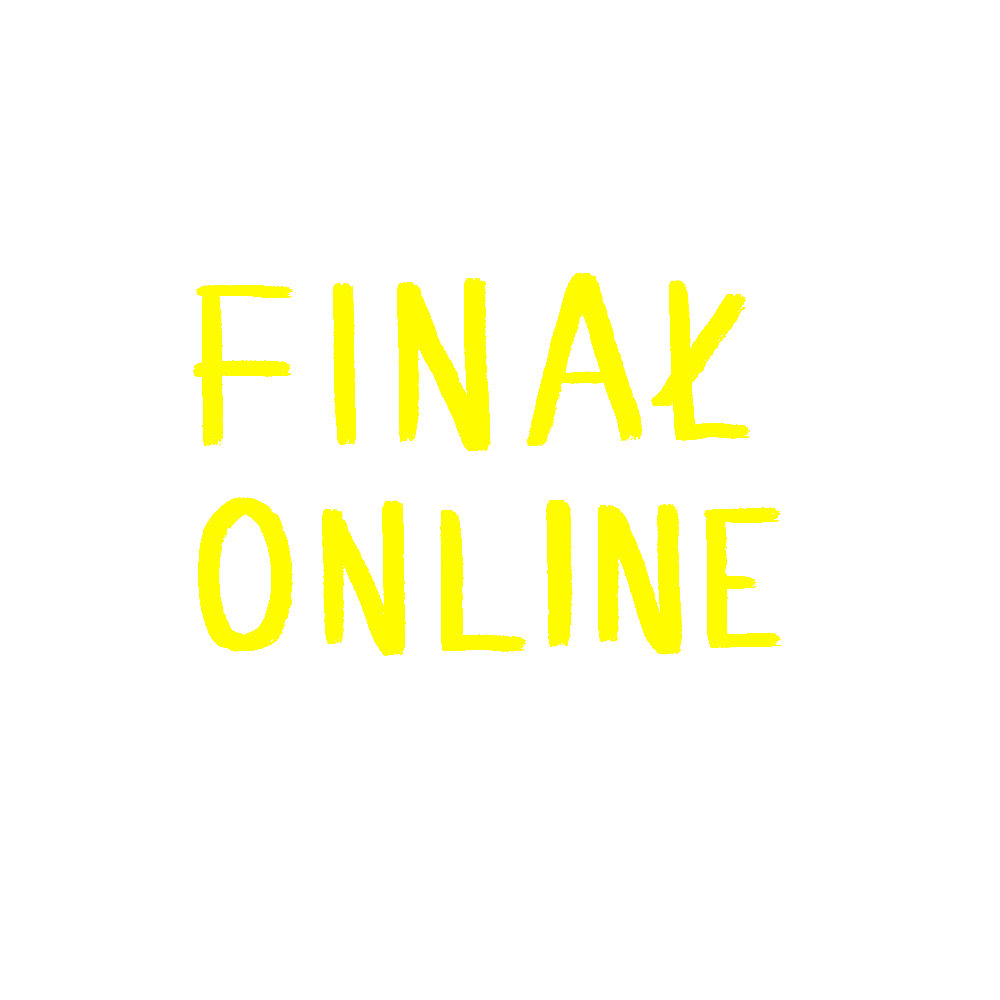
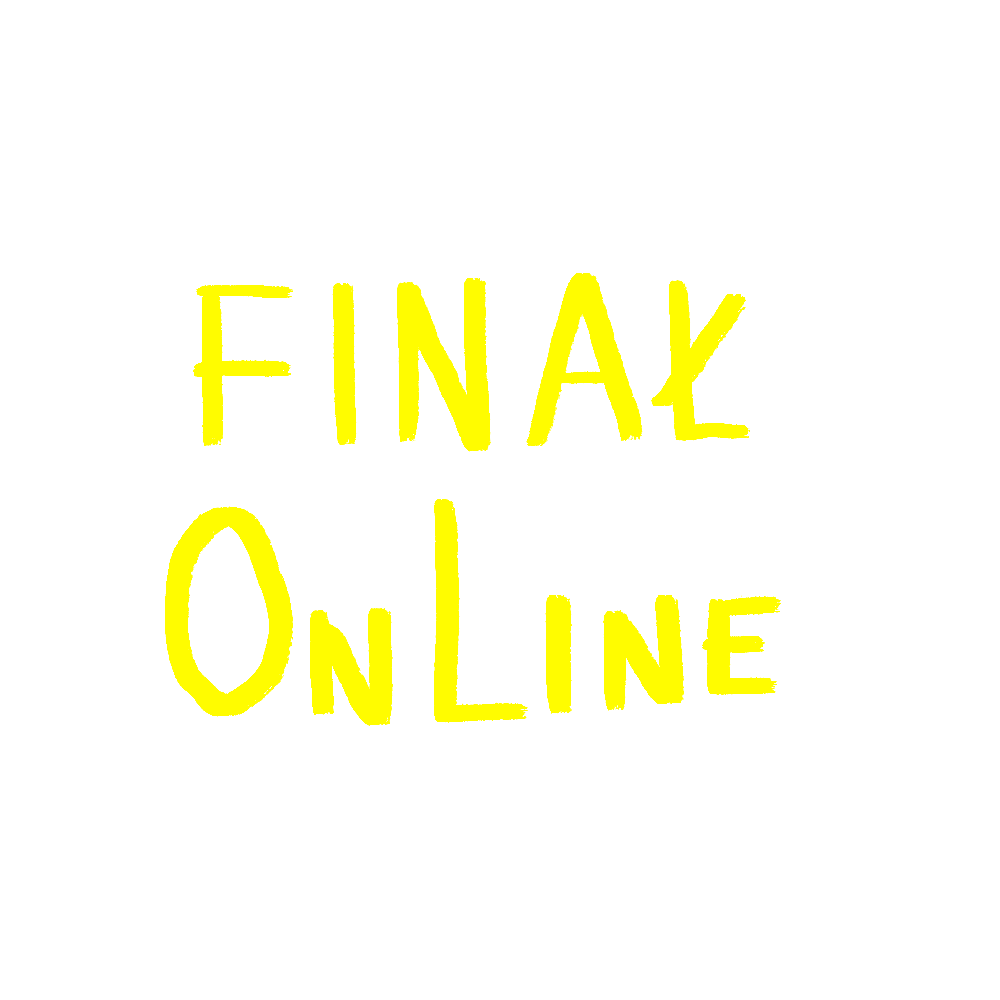
dasdA

Changed region(s): [[0.434, 0.496, 0.775, 0.744], [0.155, 0.496, 0.403, 0.744]]

diff --git a/index.html b/index.html
@@ -192,13 +192,15 @@
         <div class="container">
           <div class="row">
             <div class="col-md-6 align-self-center g-mb-50--md g-mb-0--md">
-              <div class="u-heading-v2-3--bottom g-brd-primary g-mb-30">
+              <div class="u-heading-v2-3--bottom g-brd-primary g-mb-30"  id="custom-line-color">
                 <h2 class="h1 u-heading-v2__title g-color-gray-dark-v2 text-uppercase g-font-weight-700">Chcesz z nami napisać sztukę teatralną?</h2>
               </div>
 
               <div class="g-font-size-18 g-line-height-2 g-mb-30">
                 <p> Jesteś kreatywny? Lubisz pisać? Chciałbyś opowiedzieć o czymś dla Ciebie ważnym? Albo zabawnym? A może poruszającym?
 Zapraszamy Cię na warsztaty scenariopisarskie z wybitnym scenarzystą filmowym i pisarzem <strong>Cezarym Harasimowiczem</strong>. W ciągu sześciu spotkań online powstanie scenariusz sztuki teatralnej,  którą potem wystawimy na profesjonalnej scenie, a zagrają w niej zawodowi aktorzy.</p>
+                <p><a href="img/regulamin.pdf" target="_blank">REGULAMIN PROJEKTU</a></p>
+
                 <!-- <p>There are many variations of passages of Lorem Ipsum available, but the majority have suffered alteration in some form, by injected humour, or randomised words which don't look even slightly believable.</p> -->
               </div>
 
@@ -261,7 +263,7 @@ Zapraszamy Cię na warsztaty scenariopisarskie z wybitnym scenarzystą filmowym 
           <div class="row no-gutters">
             <div class="col-lg-4">
               <!-- Icon Blocks -->
-              <div class="u-block-hover g-bg-purple g-color-white text-center g-py-120 g-px-50">
+              <div class="u-block-hover g-bg-purple g-color-white text-center g-py-120 g-px-50 block-same-size">
                 <span class="d-block g-font-size-50 g-rounded-5 mb-2">
                   <i class="icon-education-003 u-line-icon-pro"></i>
                 </span>
@@ -292,12 +294,12 @@ Zapraszamy Cię na warsztaty scenariopisarskie z wybitnym scenarzystą filmowym 
 
             <div class="col-lg-4">
               <!-- Icon Blocks -->
-              <div class="u-block-hover g-bg-purple g-color-white text-center g-py-120 g-px-50">
+              <div class="u-block-hover g-bg-purple g-color-white text-center g-py-120 g-px-50 block-same-size">
                 <span class="d-block g-font-size-50 g-rounded-5 mb-2">
                   <i class="icon-education-090 u-line-icon-pro"></i>
                 </span>
                 <h3 class="h3 g-font-weight-600 mb-30">OnLINE / OnLIFE</h3>
-                <!-- <p class="lead g-color-white-opacity-0_8 mb-5">We strive to embrace and drive change in our industry which allows us to keep our clients relevant.</p> -->
+                <p class="lead g-color-white-opacity-0_8 mb-5">Projekt przenosi się z rzeczywistości internetowej (<i>online</i>) do „realu“ (<i>onlife</i>). Sztuka wchodzi w etap „żywego“ teatru i wejdzie do stałego repertuaru Garnizonu Sztuki - teatru pozytywnych emocji. </p>
                 <!-- <div class="u-block-hover__additional--fade u-block-hover__additional--fade-up">
                   <a class="btn btn-lg u-btn-outline-white g-pos-abs g-bottom-80 g-absolute-centered--x g-font-weight-500 g-font-size-default g-rounded-4 g-px-25" href="#">Subscribe</a>
                 </div> -->
@@ -363,7 +365,7 @@ Zapraszamy Cię na warsztaty scenariopisarskie z wybitnym scenarzystą filmowym 
                       <p class="g-color-gray-dark-v5 align-justify mb-0"><strong>4. „Cyberobłęd"</strong>, zagrożenie jakim jest wpływ internetu na nasze zachowania, uzależnienia, lęki.</p>
                       <!-- </br> -->
                       <p class="g-color-gray-dark-v5  align-justify mb-0">Spośród chętnych, którzy nadeślą uzasadnienie wyboru interesującego ich tematu, komisja w składzie: Cezary Harasimowicz, Joanna Glińska, Grażyna Wolszczak, Martyna Kowacka, wyłoni 35 - osobową grupę warsztatową.</p>
-                      <p><a href="img/regulamin.pdf" >Regulamin projektu</a></p>
+                      <p><a href="img/regulamin.pdf" target="_blank">REGULAMIN PROJEKTU</a></p>
                     </div>
                   </div>
                 </div>
@@ -452,7 +454,7 @@ Zapraszamy Cię na warsztaty scenariopisarskie z wybitnym scenarzystą filmowym 
                 <div class="col-md-9 g-order-1 g-order-2--sm px-0 g-mb-15 g-mb-0--md">
                   <div class="media d-block d-md-flex">
                     <div class="d-md-flex g-width-120 g-width-170--md g-height-120 g-height-170--md g-overlay-black-0_7 g-overlay-none--parent-hover g-rounded-50x g-mr-30--md mx-auto g-mb-15 g-mb-0--md g-transition-0_2 g-transition--ease-in">
-                      <img class="img-fluid g-rounded-50x bg-blue-custom" src="img/finaloffline.png" alt="Image description">
+                      <img class="img-fluid g-rounded-50x bg-blue-custom" src="img/finalonlife.png" alt="Image description">
                     </div>
 
                     <div class="media-body align-self-center">
@@ -495,7 +497,7 @@ Zapraszamy Cię na warsztaty scenariopisarskie z wybitnym scenarzystą filmowym 
               </div>
               <div class="  g-pos-rel g-z-index-1">
                 <h3 class="h5 g-color-black g-font-weight-700 text-uppercase g-mb-12 custom-align">13 marca - SESJA 1 -  TEMAT I GATUNEK</h3>
-                <p class="g-color-black mb-0 custom-align">Po zapoznaniu się z uczestnikami, #Internauci pod przewodnictwem lidera zbiorowo omówią wybrany <strong>jeden czterech tematów</strong> oraz <strong>gatunek literacki</strong>, który najbardziej pasuje do tego tematu. Wyborowi będzie towarzyszyć kreatywna dyskusja dlaczego akurat ten temat i gatunek jest interesujący. </p>
+                <p class="g-color-black mb-0 custom-align">Po zapoznaniu się z uczestnikami, #Internauci pod przewodnictwem mentora zbiorowo omówią wybrany <strong>jeden czterech tematów</strong> oraz <strong>gatunek literacki</strong>, który najbardziej pasuje do tego tematu. Wyborowi będzie towarzyszyć kreatywna dyskusja dlaczego akurat ten temat i gatunek jest interesujący. </p>
               </div>
             </article>
             <!-- End Article -->
@@ -523,7 +525,7 @@ Zapraszamy Cię na warsztaty scenariopisarskie z wybitnym scenarzystą filmowym 
               </div>
               <div class="  g-pos-rel g-z-index-1">
                 <h3 class="h5 g-color-black g-font-weight-700 text-uppercase g-mb-12 custom-align">27 marca - SESJA 3 - FABUŁA</h3>
-                <p class="g-color-black mb-0 custom-align">Na początku sesji lider omówi i wybierze najlepsze „prace domowe”, a co za tym idzie – najciekawszą postać głównego bohatera (bohaterki), antagonisty i postaci drugoplanowych. Teraz będziemy na tej podstawie <strong>budować fabułę</strong>. Lider wyjaśni na czym polega wyznaczenie głównego celu bohatera, stawianie przeszkód, budowanie punktów zwrotnych, budowanie ekspozycji, konfrontacji, kulminacji, rozwiązania. Jak sztuka dzieli się na akty. A także wybierzemy wspólnie odpowiednie miejsce i czas dla akcji sztuki. #Internautom zostanie wyznaczone zadanie domowe: <strong>pięć zwięzłych zdań (logline) dotyczących fabuły przyszłej sztuki</strong>. „Praca domowa” będzie przesłana do następnej środy do godz. 12.00. na skrzynkę kontaktową.</p>
+                <p class="g-color-black mb-0 custom-align">Na początku sesji mentor omówi i wybierze najlepsze „prace domowe”, a co za tym idzie – najciekawszą postać głównego bohatera (bohaterki), antagonisty i postaci drugoplanowych. Teraz będziemy na tej podstawie <strong>budować fabułę</strong>. Mentor wyjaśni na czym polega wyznaczenie głównego celu bohatera, stawianie przeszkód, budowanie punktów zwrotnych, budowanie ekspozycji, konfrontacji, kulminacji, rozwiązania. Jak sztuka dzieli się na akty. A także wybierzemy wspólnie odpowiednie miejsce i czas dla akcji sztuki. #Internautom zostanie wyznaczone zadanie domowe: <strong>pięć zwięzłych zdań (logline) dotyczących fabuły przyszłej sztuki</strong>. „Praca domowa” będzie przesłana do następnej środy do godz. 12.00. na skrzynkę kontaktową.</p>
               </div>
             </article>
             <!-- End Article -->
@@ -536,7 +538,7 @@ Zapraszamy Cię na warsztaty scenariopisarskie z wybitnym scenarzystą filmowym 
               </div>
               <div class="  g-pos-rel g-z-index-1">
                 <h3 class="h5 g-color-black g-font-weight-700 text-uppercase g-mb-12">10 kwietnia - SESJA 4 - PRZEBIEG AKCJI</h3>
-                <p class="g-color-black mb-0">Na początku sesji lider omówi i wybierze najlepsze „prace domowe”, a co za tym idzie – najciekawszy logline przyszłej sztuki. Teraz spróbujemy wspólnie zbudować <strong>przebieg akcji</strong>. Lider wyjaśni na czym polega t. zw. „drabinka”, czyli plan akcji zawierający się w 10. punktach dotyczących najważniejszych scen sztuki. Jako zadanie trzeba będzie w domu stworzyć ową „drabinkę”, a na jej podstawie napisać <strong>jednostronicowe streszczenie sztuki</strong>. „Praca domowa” będzie przesłana do następnej środy do godz. 12.00. na skrzynkę kontaktową.</p>
+                <p class="g-color-black mb-0">Na początku sesji mentor omówi i wybierze najlepsze „prace domowe”, a co za tym idzie – najciekawszy logline przyszłej sztuki. Teraz spróbujemy wspólnie zbudować <strong>przebieg akcji</strong>. Mentor wyjaśni na czym polega t. zw. „drabinka”, czyli plan akcji zawierający się w 10. punktach dotyczących najważniejszych scen sztuki. Jako zadanie trzeba będzie w domu stworzyć ową „drabinkę”, a na jej podstawie napisać <strong>jednostronicowe streszczenie sztuki</strong>. „Praca domowa” będzie przesłana do następnej środy do godz. 12.00. na skrzynkę kontaktową.</p>
               </div>
             </article>
             <!-- End Article -->
@@ -552,7 +554,7 @@ Zapraszamy Cię na warsztaty scenariopisarskie z wybitnym scenarzystą filmowym 
               </div>
               <div class="  g-pos-rel g-z-index-1">
                 <h3 class="h5 g-color-black g-font-weight-700 text-uppercase g-mb-12 custom-align">17 kwietnia - SESJA 5 - DIALOG</h3>
-                <p class="g-color-black mb-0 custom-align">Na początku sesji lider oceni najlepsze streszczenia fabuły. Omówimy jak wybrane sceny ubrać w dialog, na czym polega budowanie akcji przez dialog, na czym polega psychologia dialogu, na czym polega zróżnicowanie dialogu według postaci, na czym polega budowanie sceny dialogowej, jak powinien wyglądać jej przebieg i rytm. #Internauci jako zadanie domowe napiszą <strong>jednostronicową próbkę dialogu</strong>. „Praca domowa” będzie przesłana do następnej środy do godz. 12.00. na skrzynkę kontaktową.</p>
+                <p class="g-color-black mb-0 custom-align">Na początku sesji mentor oceni najlepsze streszczenia fabuły. Omówimy jak wybrane sceny ubrać w dialog, na czym polega budowanie akcji przez dialog, na czym polega psychologia dialogu, na czym polega zróżnicowanie dialogu według postaci, na czym polega budowanie sceny dialogowej, jak powinien wyglądać jej przebieg i rytm. #Internauci jako zadanie domowe napiszą <strong>jednostronicową próbkę dialogu</strong>. „Praca domowa” będzie przesłana do następnej środy do godz. 12.00. na skrzynkę kontaktową.</p>
               </div>
             </article>
             <!-- End Article -->
@@ -565,7 +567,7 @@ Zapraszamy Cię na warsztaty scenariopisarskie z wybitnym scenarzystą filmowym 
               </div>
               <div class="  g-pos-rel g-z-index-1">
                 <h3 class="h5 g-color-black g-font-weight-700 text-uppercase g-mb-12">24 kwietnia - SESJA 6 - PODSUMOWANIE: </h3>
-                <p class="g-color-black mb-0">Lider omówi przesłane prace domowe. Przedstawi najlepsze jego zdaniem rozwiązanie fabuły i podda analizie #Internautów. Teraz usiądzie do <strong>swojej pracy domowej</strong> i korzystając z prac uczestników Projektu, na podstawie rozmów z nimi i ich inwencji twórczej napisze sztukę, która będzie wystawiona w Teatrze Garnizon Sztuki.</p>
+                <p class="g-color-black mb-0">Mentor omówi przesłane prace domowe. Przedstawi najlepsze jego zdaniem rozwiązanie fabuły i podda analizie #Internautów. Teraz usiądzie do <strong>swojej pracy domowej</strong> i korzystając z prac uczestników Projektu, na podstawie rozmów z nimi i ich inwencji twórczej napisze sztukę, która będzie wystawiona w Teatrze Garnizon Sztuki.</p>
               </div>
             </article>
             <!-- End Article -->
@@ -582,8 +584,9 @@ Zapraszamy Cię na warsztaty scenariopisarskie z wybitnym scenarzystą filmowym 
       <section id="events" class="g-bg-img-hero g-bg-attachment-fixed g-bg-black-opacity-0_6--after g-py-100" style="background-image: url(assets/img-temp/1400x588/img1.jpg);">
         <div class="container u-bg-overlay__inner">
           <div class="container text-center g-width-780 g-mb-65">
+            <p class="g-color-white custom-adress">Masz pytania? Napisz na <a href="mailto:warsztaty@garnizonsztuki.org.pl">warsztaty@garnizonsztuki.org.pl</a></p>
             <div class="u-heading-v2-2--bottom g-brd-primary-2">
-              <h2 class="text-uppercase u-heading-v2__title g-line-height-1 g-font-weight-700 g-font-size-30 g-font-size-40--md g-color-white g-mb-0">Do ostatecznego terminu składania prac</h2>
+              <h2 class="text-uppercase u-heading-v2__title g-line-height-1 g-font-weight-700 g-font-size-30 g-font-size-40--md g-color-white g-mb-0">Do ostatecznego terminu składania prac pozostało</h2>
             </div>
           </div>
 

diff --git a/css/custom.css b/css/custom.css
@@ -204,3 +204,43 @@ a:visited {
 .nav-link {
   font-size: 14px;
 }
+
+
+#custom-line-color::after {
+  border-color:#00a8ff!important;
+}
+
+p {
+  text-align: justify!important;
+}
+
+a:visited {
+  color:#00a8ff
+}
+
+
+.custom-adress {
+  font-size: 17px;
+  text-align: left!important;
+  margin-bottom: 30px;;
+
+}
+
+.custom-adress a {
+  color: #fffc00;
+}
+
+
+.block-same-size {
+  max-height: 481px;
+}
+
+#start-projektu div {
+  padding: 63px;
+}
+
+#start-projektu {
+  margin-bottom: -80px;
+}
+
+
